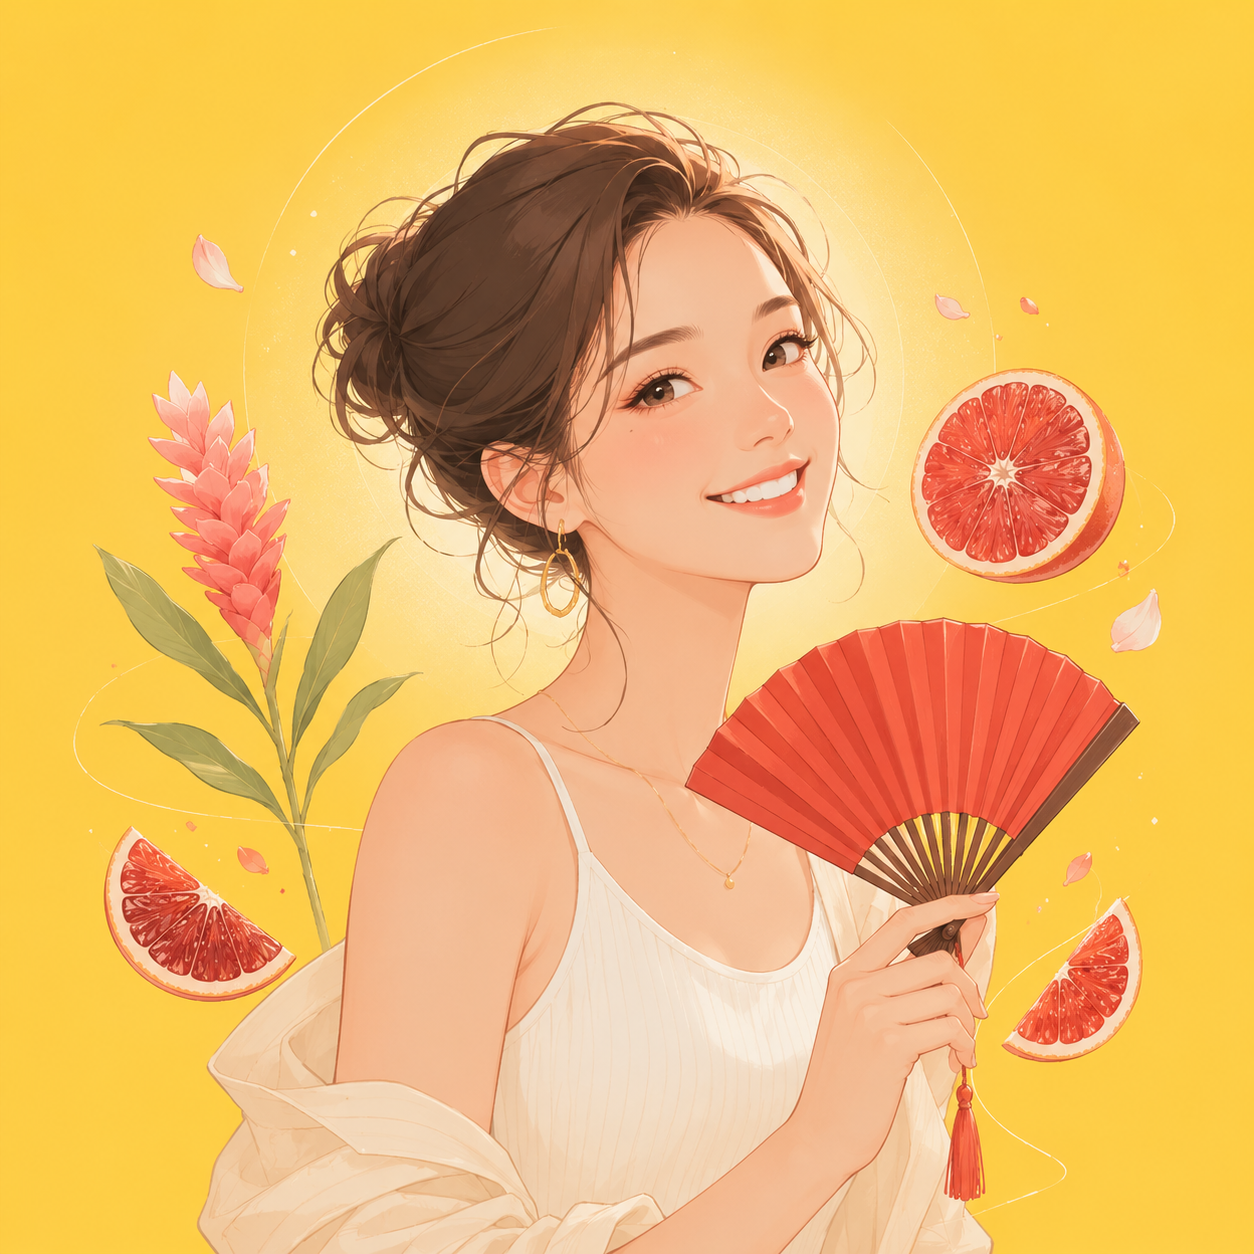
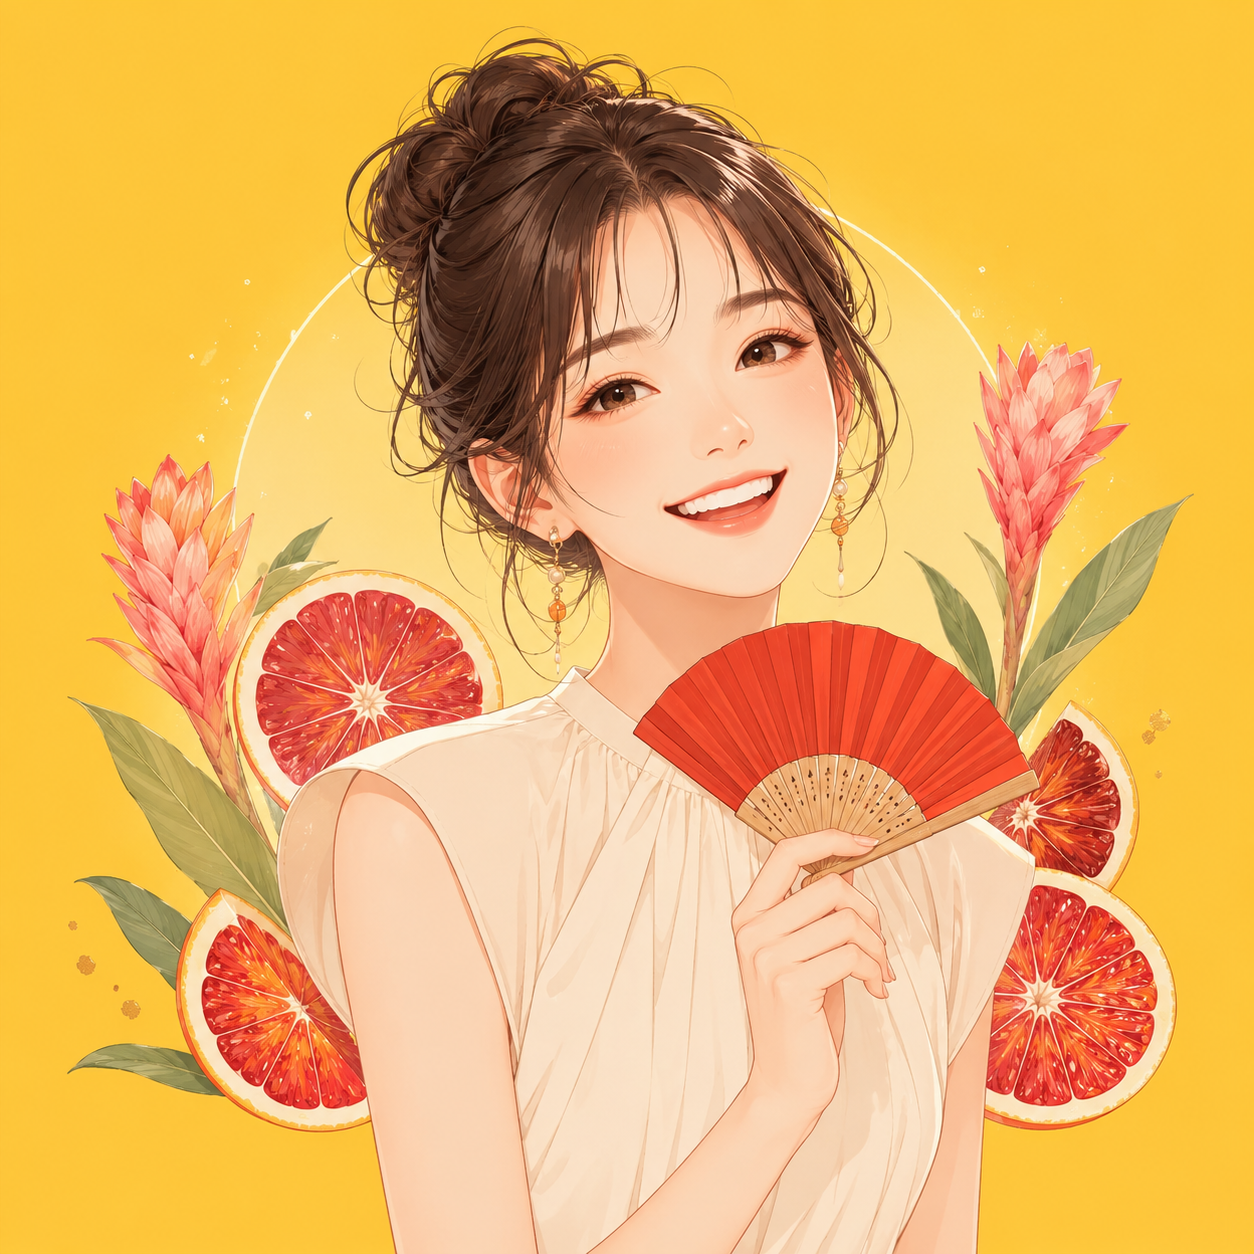
画像アセット投入: タイプ16点・ノート8点・キービジュアルを配置し、参照拡張子を .png に統一
- public/img/types/{slug}.png ×16（陽刻は差し替え）
- public/img/notes/{slug}.png ×8
- public/img/hero/key-visual.png
- LP / ノート一覧 / ノート詳細の Art src を .jpg → .png に変更

diff --git a/src/app/notes/page.tsx b/src/app/notes/page.tsx
@@ -37,7 +37,7 @@ export default function NotesIndexPage() {
             return (
               <li key={n.slug} className={`card ${styles.item}`}>
                 <Link href={`/notes/${n.slug}`} className={styles.thumb} style={{ background: `${ACCORD_LIQUID[n.accord]}33` }}>
-                  <Art src={`/img/notes/${n.slug}.jpg`} alt="" className={styles.thumbArt} fallback={<span className={styles.thumbDot} style={{ background: ACCORD_LIQUID[n.accord] }} />} />
+                  <Art src={`/img/notes/${n.slug}.png`} alt="" className={styles.thumbArt} fallback={<span className={styles.thumbDot} style={{ background: ACCORD_LIQUID[n.accord] }} />} />
                 </Link>
                 <div className={styles.body}>
                   <h2 className={styles.title}>

diff --git a/src/app/notes/[slug]/page.tsx b/src/app/notes/[slug]/page.tsx
@@ -54,7 +54,7 @@ export default async function NotePage({ params }: { params: Promise<{ slug: str
           <ArticleMeta publishedAt={n.publishedAt} updatedAt={n.updatedAt} />
         </div>
         <div className={styles.heroArt} style={{ background: `${ACCORD_LIQUID[n.accord]}33` }} aria-hidden="true">
-          <Art src={`/img/notes/${n.slug}.jpg`} alt="" className={styles.heroArtInner} fallback={<span className={styles.heroDot} style={{ background: ACCORD_LIQUID[n.accord] }} />} />
+          <Art src={`/img/notes/${n.slug}.png`} alt="" className={styles.heroArtInner} fallback={<span className={styles.heroDot} style={{ background: ACCORD_LIQUID[n.accord] }} />} />
         </div>
         <p className={`card ${styles.lead}`}>{n.lead}</p>
 

diff --git a/src/app/page.tsx b/src/app/page.tsx
@@ -53,7 +53,7 @@ export default function HomePage() {
           <span className="eyebrow">Perfume Type Test</span>
           <div className={styles.kv}>
             <Art
-              src="/img/hero/key-visual.jpg"
+              src="/img/hero/key-visual.png"
               alt="香水瓶と花を描いたやわらかなイラスト"
               className={styles.kvArt}
               loading="eager"
